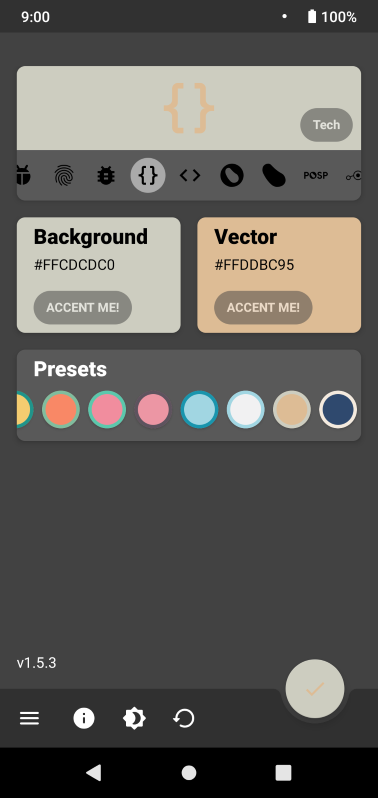
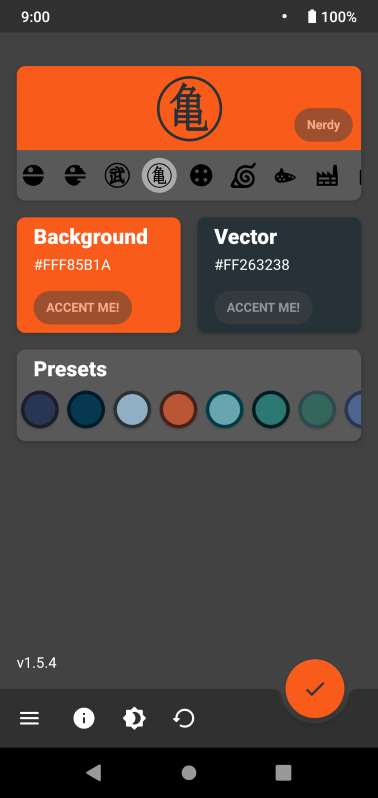
Bump to version 1.5.4

diff --git a/project/app/src/main/java/com/iven/vectorify/PreviewActivity.kt b/project/app/src/main/java/com/iven/vectorify/PreviewActivity.kt
@@ -212,7 +212,7 @@ class PreviewActivity : AppCompatActivity() {
         //if so, don't open the live wallpaper picker, just updated preferences
         if (!Utils.isLiveWallpaperRunning(this)) Utils.openLiveWallpaperIntent(this)
         else
-            DynamicToast.makeSuccess(this, getString(R.string.boo))
+            DynamicToast.makeSuccess(this, getString(R.string.title_already_live))
                 .show()
     }
 

diff --git a/README.md b/README.md
@@ -1,14 +1,14 @@
 # <img src ="https://upload.wikimedia.org/wikipedia/commons/b/b5/Kotlin-logo.png" width=24> Vectorify da home!
 
 
-###### Current version: [(23) 1.5.3](https://github.com/enricocid/VectorifyDaHome/releases/tag/v1.5.3)
+###### Current version: [(24) 1.5.4](https://github.com/enricocid/VectorifyDaHome/releases/tag/v1.5.4)
 
 
 [![API](https://img.shields.io/badge/API-21%2B-blue.svg?style=flat-square)](https://android-arsenal.com/api?level=21) [![Donate on PayPal](https://img.shields.io/badge/PayPal-Donate%20Now-brightgreen.svg)](https://paypal.me/enricocid) 
 
 [PRIVACY POLICY](https://github.com/enricocid/VectorifyDaHome/blob/master/PRIVACY-POLICY.md) - [CREDITS](https://github.com/enricocid/VectorifyDaHome/blob/master/Credits.md)
 
-![Screenshots](https://raw.githubusercontent.com/enricocid/VectorifyDaHome/master/vdh22.gif) 
+![Screenshots](https://raw.githubusercontent.com/enricocid/VectorifyDaHome/master/vdh24.gif) 
 
 
 # Downloads
